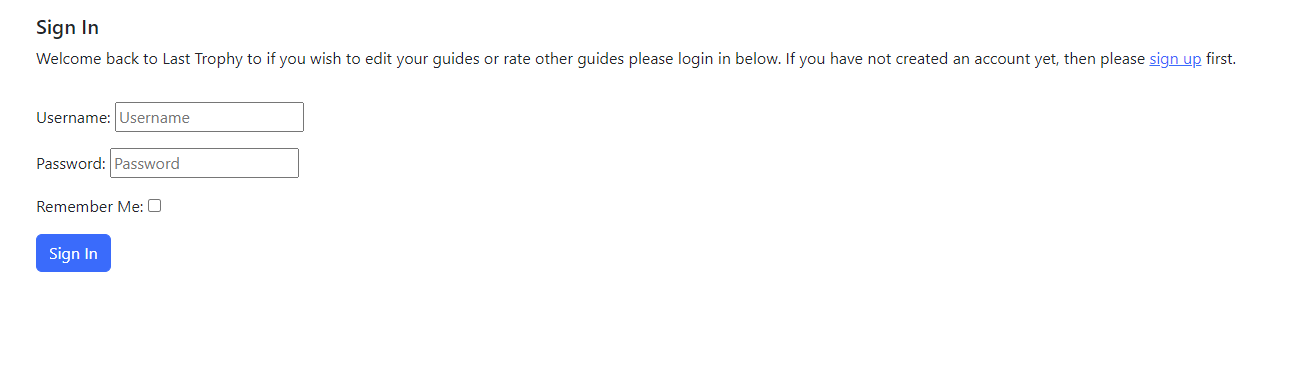
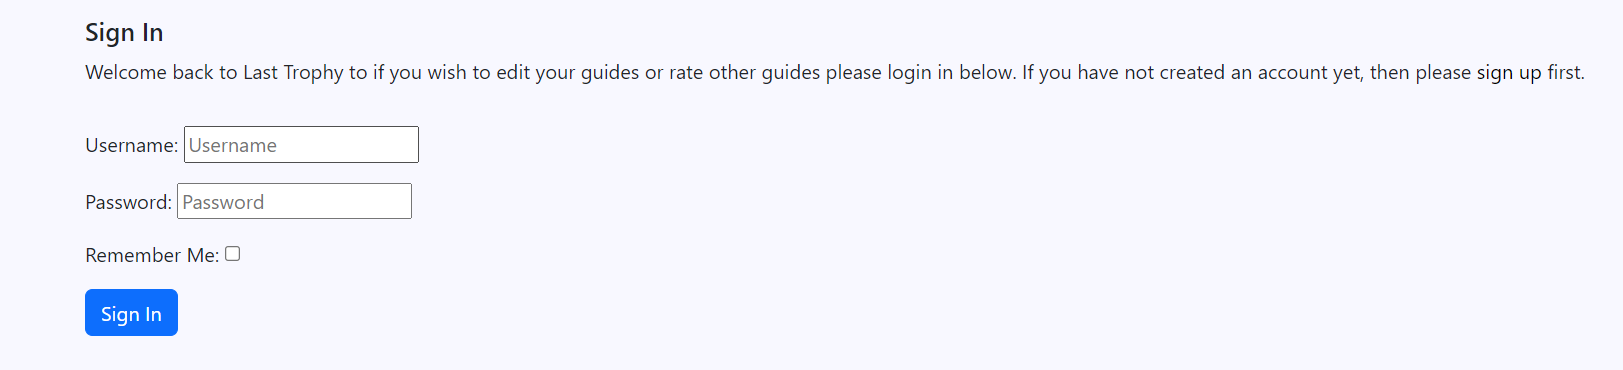
Added user guide wireframes,updated images to readme

diff --git a/guides/templates/trophy_detail.html b/guides/templates/trophy_detail.html
@@ -35,7 +35,7 @@
         <!--Checking if user is not logged in and there being no guides-->
         {% if not trophies.guides.all and not user.is_authenticated %}
         <div class="col-12 pt-3 d-flex flex-column align-items-center">
-            <p class="text-center col-md-8">
+            <p class="text-center col-6">
                 Do you want to help out other fellow trophy hunters like yourself? Then simply login or create an
                 account with us to join our ever growing community!
             </p>
@@ -43,7 +43,7 @@
             <a class="btn btn-primary" href="{% url 'account_signup' %}">Register</a>
             <!--checking if user is logged in and there not being any guides-->
             {% elif not trophies.guides.all and user.is_authenticated %}
-            <p class="text-center col-md-8">
+            <p class="text-center pt-2">
                 Do you want to help out other fellow trophy hunters like yourself? Then simply click create guide and
                 take your next step
                 in joining our ever growing community

diff --git a/templates/account/login.html b/templates/account/login.html
@@ -32,7 +32,7 @@
 <div class="contianer fluid">
   <div class="row ps-2 col-md-10 mt-3 offset-md-2">
     <h1>{% trans "Sign In" %}</h1>
-    <p>{% blocktrans %}Welcome back to Last Trophy to if you wish to edit your guides or rate other guides please login in below. If you have not created an account yet, then please
+    <p class="mr-2 p-3">{% blocktrans %}Welcome back to Last Trophy to if you wish to edit your guides or rate other guides please login in below. If you have not created an account yet, then please
       <a href="{{ signup_url }}">sign up</a> first.{% endblocktrans %}</p>
     {% endif %}
 

diff --git a/category/templates/game_detail.html b/category/templates/game_detail.html
@@ -6,7 +6,7 @@
 <div class="container-fluid">
   <div class="row">
     <div class="d-flex flex-column align-items-md-center">
-      <div class="border col-md-4 col-lg-">
+      <div class="border col-md-4 game-section">
         <h3 class="text-center">{{game.title}}</h3>
         {% if "placeholder" in game.featured_image.url %}
         <img class="img-thumbnail" src="{% static 'images/elden-ring-cover.jpg' %}" alt="placeholder image">

diff --git a/static/css/style.css b/static/css/style.css
@@ -59,6 +59,9 @@ img{
     margin-left: 2px;
 }
 
+.game-section {
+    background-color: #ffffff;
+}
 
 .game-heading {
     padding-left: 4px;
@@ -146,3 +149,12 @@ img{
     padding-right: 20px;
 }
 
+
+/* Media Query larger desktop */
+
+@media screen and (min-width: 768px) {
+    .heading-text {
+        height: 40vh;
+        background-image: url("/staticfiles/images/elden-ring-cover.jpg")
+    }
+}

diff --git a/staticfiles/css/style.css b/staticfiles/css/style.css
@@ -59,6 +59,9 @@ img{
     margin-left: 2px;
 }
 
+.game-section {
+    background-color: #ffffff;
+}
 
 .game-heading {
     padding-left: 4px;
@@ -146,3 +149,11 @@ img{
     padding-right: 20px;
 }
 
+
+/* Media Query larger desktop */
+
+@media screen and (min-width: 768px) {
+    .heading-text {
+        height: 40vh;
+    }
+}

diff --git a/README.md b/README.md
@@ -230,11 +230,11 @@ This element will be shown to the user once they have clicked on a game showing 
 
 #### Mobile Games view
 
-![Mobile Game List](static/images/game-list-mobile-view.png)
+![Mobile Game List](static/images/mobile-game-user-view.png)
 
 #### Desktop Games view
 
-![Desktop Game List](static/images/desktop-game-list.png)
+![Desktop Game List](static/images/desktop-game-user-view.png)
 
 ### Sign up page
 The sign up page will be showcased to the user allowing them to create an account to gain access to the features of the last trophy site such as creating guides, editing there own guides and deleting there own guides. They will also be able to provide feedback to other users such as adding comments and liking and disliking guides.
@@ -242,7 +242,7 @@ The sign up page will be showcased to the user allowing them to create an accoun
 
 #### Mobile Sign up view
 
-![Sign up Mobile view](static/images/sign-up-mobile-view.png)
+![Sign up Mobile view](static/images/register-sign-up-mobile.png)
 
 #### Desktop Sign up view
 
@@ -260,7 +260,7 @@ The login page will be showcased to the user, allowing them to login to an exist
 
 #### Desktop Sign in view
 
-![Desktop Mobile](static/images/login-desktop-view.png)
+![Desktop Login](static/images/login-desktop-view.png)
 
 ### User Guides
 
@@ -271,26 +271,46 @@ This page will allow the user to view the exisiting guides, create a new guide, 
 
 When there is a guide created this view will be shown if the user is not logged in
 
+![Mobile user not logged in](static/images/mobile-desktop-guide-not-logged-in-guides.png)
+
 When there is a guide created this view will be shown if the user is logged in
+
+![Mobile user logged in](static/images/mobile-guides-created-logged-in.png)
 
 When there isnt a guide created this view will be shown if the user is not logged in
 
+![Mobile user not logged in zero guides](static/images/zero-guides-mobile-not-logged-in.png)
+
 When there isnt a guide created this view will be shown if the user is logged in
 
+![Mobile user logged in zero guides](static/images/logged-in-user-zero-guide-mobile.png)
+
 If the site user is the admin user this view will be shown
+
+![Admin user logged in](static/images/admin-logged-in-guide.png)
 
 #### Desktop User Guides view
 
 When there is a guide created this view will be shown if the user is not logged in
 
+![Desktop user logged in guides created](static/images/logged-in-user-guide.png)
+
+
 When there is a guide created this view will be shown if the user is logged in
+
+![Desktop user not logged in guides created](static/images/desktop-guide-not-logged-in.png)
 
 When there isnt a guide created this view will be shown if the user is not logged in
 
+![Desktop user zero guides not logged in](static/images/zero-guides-desktop-not-logged-in.png)
+
 When there isnt a guide created this view will be shown if the user is logged in
+
+![Desktop user zero guides not logged in](static/images/logged-in-user-zero-guide-desktop.png)
 
 If the site user is the admin user this view will be shown
 
+![Desktop guide admin user](static/images/admin-logged-in-guide.png)
 
 ### Categories 
 

diff --git a/TESTING.md b/TESTING.md
@@ -28,3 +28,4 @@
 - Fixed Likes error when the user was not logged in, this would return a status code. To fix this I added an if statement to the view checking if the user was logged in, if they were logged in this would add a like if the user was not logged in the user would be returned to the login page asking the user to login which fixed this issue.
 - Fixed Likes bug by seperating the guide view into another view orginally I was targeting the trophy model which would not let show the specific likes for that guide, to fix this I created a new view using the detail view of that specific guide. To see all the information regarding this guide, such as leaving likes and comments. I did this by using the get context data method overriding the default behaviour of the detail view to show more content in this view which fixed this issue.
 - Fixed comment error, originally the comments were being shown under every guide of that specific trophy, to fix this I removed the field trophy from the comment model. After this I then targeted the comment by using dot notation to find the comment model. If there was not a comment created the user could create a comment. By using dot notation to find the comment model and removing the trophy field section from the comment model fixed this issue.
+- Fixed Admin Guide deletion error. Orginally one of the user stories was to allow the admin user to delete guides on the front end if they needed to. Originally this didnt work with the test function I was using. In order to fix this I added an if statement checking if the admin user was making the request, if they were to return the objects author allowing the admin user to access this view. To make sure I also allowed the orginal guide user to still delete there own guides, I added an else statement to return this view if the author was making this request which fixed these issues.
